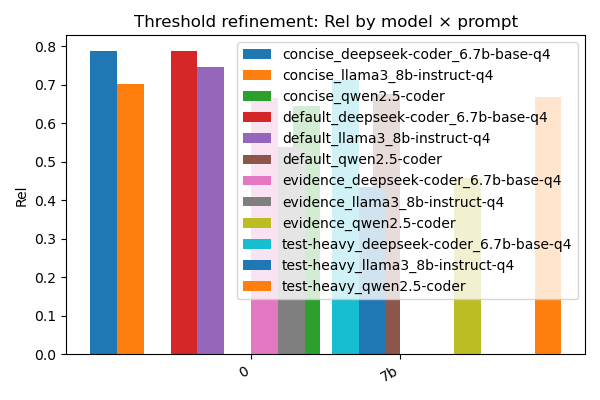
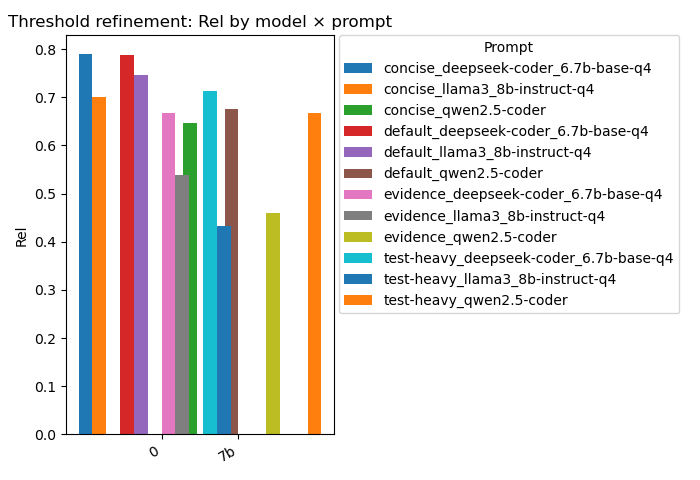
fixed bugs

diff --git a/scripts/analyze_results.py b/scripts/analyze_results.py
@@ -180,7 +180,7 @@ def plot_threshold_grid(path: Path, entries: List[Tuple[str, str, float]]):
     models = sorted({m for _, m, _ in entries})
     width = 0.18
     x = range(len(models))
-    plt.figure(figsize=(max(6, len(models) * 0.9), 4))
+    plt.figure(figsize=(max(7, len(models) * 1.0), 4.8))
     for i, prompt in enumerate(prompts):
         vals = []
         for m in models:
@@ -191,7 +191,7 @@ def plot_threshold_grid(path: Path, entries: List[Tuple[str, str, float]]):
     plt.xticks(list(x), models, rotation=30, ha="right")
     plt.ylabel("Rel")
     plt.title("Threshold refinement: Rel by model × prompt")
-    plt.legend()
+    plt.legend(title="Prompt", bbox_to_anchor=(1.02, 1), loc="upper left", borderaxespad=0)
     plt.tight_layout()
     plt.savefig(path)
     plt.close()

diff --git a/docs/results_report.md b/docs/results_report.md
@@ -1,0 +1,110 @@
+# Results and Analysis (Paper Reference)
+
+This document consolidates the experiment design, systems, prompts, and empirical findings based on the current `results/` and `analysis/` artifacts. It is written for a paper/presentation audience (no code details).
+
+## What the task is
+We start from human-written code reviews and a list of “claims” (pseudo-references) extracted from the code change. The goal is to improve the reviews so they cover important claims (recall), avoid irrelevant content (precision), and stay concise.
+
+## How quality is measured
+- **CRScore metrics**: Conciseness (Con, precision-like), Comprehensiveness (Comp, recall-like), and Relevance (Rel = F1 of Con/Comp). Higher is better.
+- **Similarity threshold τ**: 0.7314 (from the CRScore paper); a claim is “covered” if its best sentence match exceeds τ.
+- **Evidence guardrail τ_evidence**: 0.35; added sentences must be semantically supported by evidence above this threshold.
+
+## Method overview (plain language)
+1) **Offline/template editor**: A lightweight, non-LLM template edits the review over 1–3 iterations, guided by CRScore to pick the best candidate. Variants differ in how many iterations, whether they rewrite vs minimally edit, and whether they enforce evidence or selection.
+2) **Few-shot baseline (proposal v1)**: A small local LLM rewrites using a fixed prompt plus mined “bad→good” pairs.
+3) **Threshold-gated refinement**: Score the seed review; if its Rel < 0.6, ask a local LLM (Ollama) to refine it using a chosen prompt. This is where most quality gains come from in our runs.
+
+## What the system names mean (offline/template editor)
+- **baseline**: the original human review, unchanged.
+- **single_edit (k1)**: one-shot minimal edit using the template editor.
+- **loop**: multi-iteration minimal edits; at each step we generate candidates and pick the best via CRScore.
+- **single_rewrite**: one-shot full rewrite (no minimal-edit constraint).
+- **rewrite_loop**: multi-iteration full rewrites (best offline variant).
+- **no_selection**: same as loop, but picks a candidate at random (tests whether CRScore-based selection matters).
+- **no_evidence**: same as loop, but disables the evidence guardrail (tests grounding).
+
+## What the prompt names mean (threshold-gated LLM refinement)
+- **default**: general improvement; add missing key points, drop irrelevant content; suggest tests when uncertain.
+- **concise**: compress to 1–3 sentences; must mention the main change and one concrete test.
+- **evidence**: only add points directly supported by the claims; otherwise suggest a test.
+- **test-heavy**: focus on test coverage and failure modes (happy path + edge case).
+
+## Data, Metrics, and Thresholds
+- **Dataset**: CRScore human study phase 1 (test split size: 120 instances; 40 per language: Java, JS, Python).
+- **Automatic metric**: CRScore Conciseness (Con), Comprehensiveness (Comp), and F1 Relevance (Rel). Default τ = 0.7314 (per CRScore paper).
+- **Threshold-gated refinement**: Trigger condition Rel < 0.6 on the seed review; τ for scoring remains 0.7314.
+- **Evidence guardrail**: τ_evidence = 0.35 for semantic support checks.
+
+## Systems and Ablations (offline/template editor)
+Outputs and summaries live under `results/` and aggregated tables in `analysis/main_systems.md`/`.csv`.
+- **baseline**: unmodified human seed review (Rel=0.116).
+- **loop**: iterative edit with CRScore selection (Rel=0.158).
+- **single_edit (k1)**: one-pass edit, same inputs (Rel=0.154).
+- **single_rewrite**: one-pass full rewrite (Rel=0.493).
+- **rewrite_loop**: iterative full rewrites (Rel=0.521) — best offline variant.
+- **no_selection**: loop without CRScore-based selection (Rel=0.158).
+- **no_evidence**: loop without evidence guardrail (Rel=0.158).
+
+**Key takeaways**
+- Iterative rewrites dominate other template-based variants (Rel 0.521 vs ~0.15–0.49).
+- Removing selection or evidence did not improve the weak edit variants; precision/recall remain low in those modes.
+- The baseline Rel (0.116) shows substantial headroom; any meaningful edit/rewrite should be compared against it.
+
+## Proposal v1 Few-Shot Baseline (Ollama sweep)
+Summaries in `analysis/proposal_v1.md`/`.csv`; per-model outputs in `results/proposal_v1_<model>_*.jsonl`.
+- **qwen2.5-coder_7b**: Rel=0.308 (Con=0.386, Comp=0.306).
+- **llama3_8b-instruct-q4_0**: Rel=0.303 (Con=0.363, Comp=0.311).
+- **deepseek-coder_6.7b-base-q4_0**: Rel=0.094 (Con=0.089, Comp=0.142).
+
+**Takeaway**: Among small local models, Qwen 7b and Llama3 8b produce comparable mid-tier quality; DeepSeek 6.7b underperforms on this setup.
+
+## Threshold-Gated Refinement (Ollama × prompts)
+Summaries in `analysis/threshold_summary.md`/`.csv`; improvement rates in `analysis/threshold_improvement.md`/`.csv`; per-run JSONL in `results/threshold_<prompt>_<model>.jsonl`. Prompts are:
+- **default**: general improvement.
+- **concise**: 1–3 sentences, must mention main change + one concrete test.
+- **evidence**: add only claims-supported points; otherwise suggest a test.
+- **test-heavy**: emphasize test coverage and edge cases.
+
+**Overall Rel (higher is better; N=120)**
+- **default (deepseek-coder_6.7b-base-q4_0)**: Rel 0.788, Con 0.793, Comp 0.838.
+- **concise (deepseek-coder_6.7b-base-q4_0)**: Rel 0.789, Con 0.833, Comp 0.791.
+- **default (llama3_8b-instruct-q4_0)**: Rel 0.746, Con 0.767, Comp 0.777.
+- **concise (llama3_8b-instruct-q4_0)**: Rel 0.701, Con 0.813, Comp 0.669.
+- **default (qwen2.5-coder_7b)**: Rel 0.676, Con 0.692, Comp 0.703.
+- **concise (qwen2.5-coder_7b)**: Rel 0.646, Con 0.694, Comp 0.654.
+- Evidence/test-heavy prompts are generally weaker on Rel, except test-heavy qwen2.5-coder_7b (Rel 0.668; strong Comp 0.791).
+
+**Improvement rates (fraction of cases improved when triggered; from JSONL)**
+- Range: ~0.57 (evidence, qwen2.5) up to ~0.91 (default, llama3).
+- Average Rel gains range ~0.32–0.67 across prompt/model pairs.
+
+**Takeaways**
+- Threshold gating with local LLMs yields the strongest automatic scores in the study, substantially above offline rewrites.
+- For Rel, the best-performing pairs are default/concise with DeepSeek 6.7b, followed by default Llama3 8b. Qwen 7b is competitive but lower.
+- Prompt choice matters: “default” and “concise” dominate; “evidence” is safest but less effective; “test-heavy” varies by model (good recall for Qwen).
+
+## Plots (for paper slides/figures)
+Generated to `analysis/plots/`:
+- `main_systems_rel.png`: bar chart of Rel for core systems/ablations.
+- `proposal_v1_rel.png`: bar chart of Rel for proposal v1 models.
+- `threshold_rel.png`: grouped bar chart of Rel by prompt × model.
+
+## Recommended Paper Storyline
+- **Claim 1 (iteration vs rewrite)**: Iterative rewrite (Rel 0.521) vs baseline (0.116) and single-pass rewrite (0.493) shows iteration helps beyond one-shot rewrites.
+- **Claim 2 (metric-guided selection & evidence)**: Weak edit settings show no gains without stronger editing; selection/evidence do not harm, but the quality bottleneck is the template editor—motivate LLM thresholds.
+- **Claim 3 (local LLM refinement)**: Threshold-gated refinement with small local models achieves Rel up to ~0.79, far surpassing offline loops; demonstrates a practical, cost-conscious path.
+- **Claim 4 (prompt sensitivity)**: Default/concise prompts consistently outperform evidence/test-heavy in Rel; prompt choice is a key lever for local models.
+- **Claim 5 (model choice)**: Among small local models, DeepSeek 6.7b and Llama3 8b lead in threshold refinement; Qwen 7b is competitive but behind on Rel; DeepSeek lags in proposal v1 few-shot setting.
+
+## How to Cite Results in the Paper
+Use the summarized numbers above or extract from:
+- Core systems: `analysis/main_systems.md`.
+- Proposal v1 sweep: `analysis/proposal_v1.md`.
+- Threshold sweeps: `analysis/threshold_summary.md` and `analysis/threshold_improvement.md`.
+- Figures: `analysis/plots/`.
+
+## Notes and Caveats
+- Human phase2 evaluation was dropped (no overlapping rated ids for the systems/split). All reported metrics are CRScore-based.
+- Threshold runs include both seed and refined scores in JSONL; Rel improvements are computed only on triggered cases (Rel < 0.6 seeds).
+- All summaries use the test split only (120 instances). If you rerun with different splits or limits, regenerate analysis tables/plots. 
